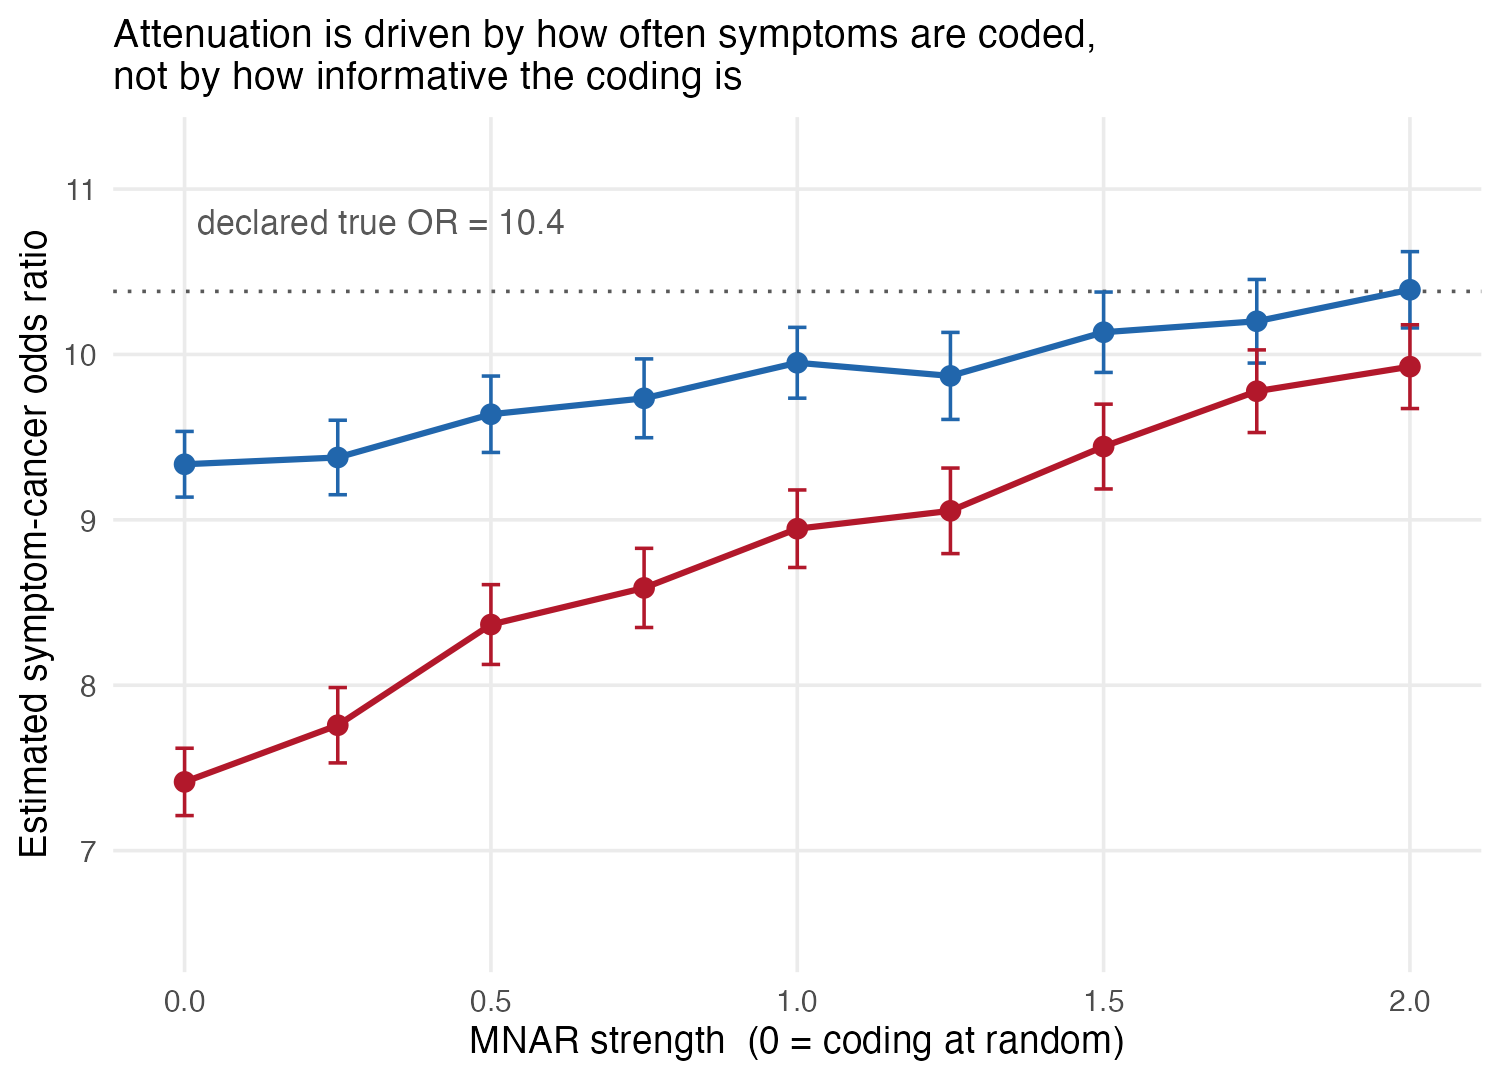
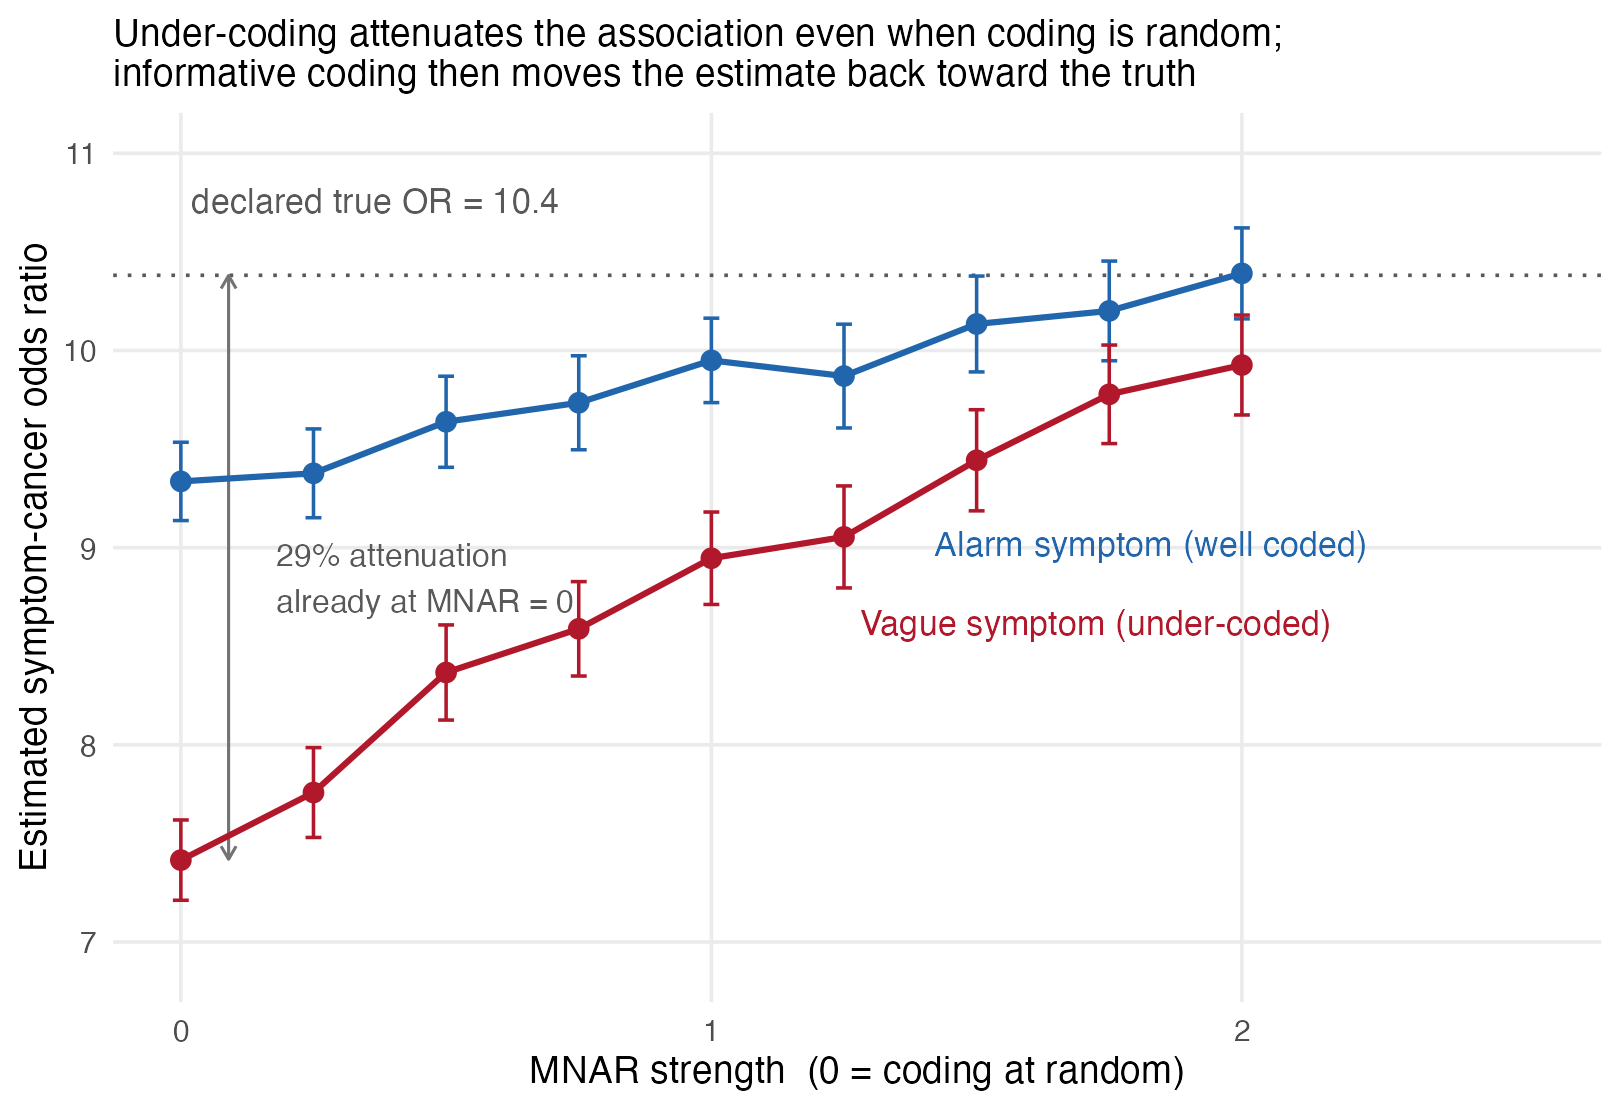
Correct headline claim about relative size of the two bias mechanisms
The previous README and figure title said coding frequency dominated coding
informativeness. The sweep does not support that: the regime gap at
mnar_strength=0 is 1.92 OR units, while the vague-regime MNAR sweep spans 2.51.
Reframed to what the data show -- attenuation is present at MNAR=0 (29% for the
under-coded regime), and the two mechanisms are comparable in magnitude.

diff --git a/README.md b/README.md
@@ -49,12 +49,19 @@ result interpretable.
 
 Three things come out of this, and the first was not what I expected.
 
-**1. The attenuation is driven by how *often* symptoms are coded, not by how
-*informative* the coding is.** At `mnar_strength = 0` — coding completely at
-random — the vague-symptom regime already returns an odds ratio of 7.4 against a
-declared true value of 10.4. The alarm regime returns 9.3. The gap between the
-two regimes at zero MNAR is larger than anything the MNAR parameter does
-afterwards.
+**1. Attenuation appears before recording is informative at all.** At
+`mnar_strength = 0` — coding completely at random — the vague-symptom regime
+already returns an odds ratio of 7.42 against a declared true value of 10.38, a
+29% attenuation. The alarm regime returns 9.34, a 10% attenuation. Coding a
+symptom less often biases the estimate downwards on its own, with no informative
+missingness required.
+
+The two mechanisms turn out to be comparable in size rather than one dominating.
+The gap between regimes at `mnar_strength = 0` is 1.92 OR units; sweeping
+`mnar_strength` from 0 to 2 moves the vague regime by 2.51 units and the alarm
+regime by 1.06. So coding frequency sets where the estimate starts, and
+informativeness determines how far it then travels — travelling furthest exactly
+where coding is sparsest.
 
 This matters for how the problem should be framed. It is a sensitivity problem:
 some truly present symptoms never become codes, specificity stays near one
@@ -64,11 +71,14 @@ a measurement-error problem, not a missing-data problem — there is no missing
 cell to impute, because an uncoded symptom and an absent symptom are the same
 zero in the structured field.
 
-**2. Increasing MNAR strength moves the odds ratio back *toward* the truth.**
-As coding concentrates among patients whose severity is high, being coded becomes
-a sharper marker of genuine disease, so the estimated association strengthens.
-Informative recording does not simply make the bias worse — it changes what the
-coded variable means.
+**2. Increasing MNAR strength moves the odds ratio back *toward* the declared
+truth.** As coding concentrates among patients whose severity is high, being
+coded becomes a sharper marker of genuine disease, so the estimated association
+strengthens — 7.42 to 9.93 in the vague regime. Informative recording does not
+simply make the bias worse; it changes what the coded variable means. Recovering
+the odds ratio is not the same as recovering usable predictions, though: the
+second figure shows calibration for truly symptomatic patients stays poor
+throughout.
 
 **3. Under-prediction for truly symptomatic patients persists across the whole
 range.** Observed risk exceeds predicted risk by 57–91% in the vague regime and
